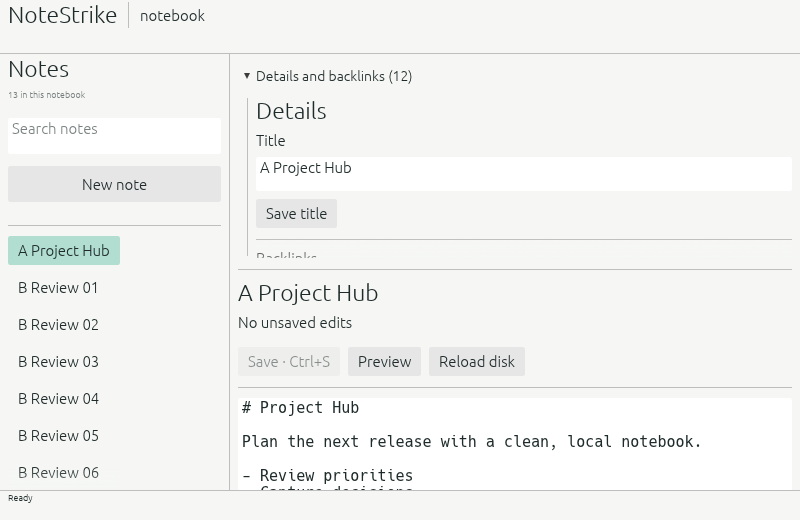
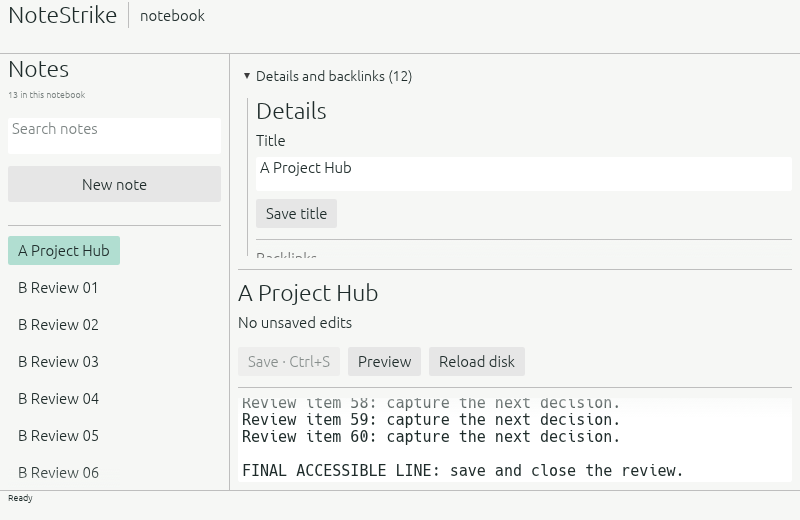
Publish verified wide and compact editor captures

Changed region(s): [[0.2812, 0.7692, 0.875, 0.8615], [0.2812, 0.8923, 0.8438, 0.9231]]

diff --git a/docs/current-editor-visual.md b/docs/current-editor-visual.md
@@ -1,10 +1,10 @@
 # Current native editor visual
 
-The [wide capture](../assets/screenshots/current-editor-wide.png) and [compact capture](../assets/screenshots/current-editor-compact.png) are unaltered app-window PNGs from `notestrike-native` at source commit `dc4a2fc29b8e694975c58605ea8aeba38bc34cc2` in [hosted run 38989364672](https://github.com/Gerbzz/NoteStrike/actions/runs/38989364672). The Linux runner used Xvfb and Mesa software OpenGL after the hosted Windows runner lacked OpenGL 2.0. No native executable was downloaded or run on the Office PC.
+The [wide capture](../assets/screenshots/current-editor-wide.png) and [compact capture](../assets/screenshots/current-editor-compact.png) are unaltered app-window PNGs from `notestrike-native` at source commit `fe0643a531ac4bc34848d1e13b43979ddabce452` in [hosted run 38991325340](https://github.com/Gerbzz/NoteStrike/actions/runs/38991325340). The Linux runner used Xvfb and Mesa software OpenGL after the hosted Windows runner lacked OpenGL 2.0. Windows formatting, ten tests, and native build passed in the same run. No native executable was downloaded or run on the Office PC.
 
-The workflow created a disposable notebook with a selected **A Project Hub** note and 12 real backlinks. It captured both 1280×800 and 800×520 layouts. The compact screenshot shows the populated Details section constrained above the editor.
+The workflow created a disposable notebook with selected **A Project Hub**, 60 review lines, and 12 real backlinks. The 1280×800 image shows the start of the long note and the sorted backlink list. The 800×520 image keeps Details open and shows review items 58–60 plus **FINAL ACCESSIBLE LINE** at the end of the source editor. The headless regression checks that long source content exceeds the compact viewport without losing its final text.
 
[4 lines of base64/hex data omitted]
 
-These captures establish rendered layout and visible content. Pointer, keyboard, focus, and screen-reader walkthroughs remain open before merge.
+These captures establish rendered layout and visible content. Interactive pointer, keyboard, focus, and screen-reader walkthroughs remain open.

diff --git a/README.md b/README.md
@@ -25,9 +25,9 @@ NoteStrike keeps a Markdown notebook on your own machine. Create and edit notes,
 
 ![Current NoteStrike workspace with a selected Project Hub and sorted backlinks](assets/screenshots/current-editor-wide.png)
 
-![Current compact NoteStrike workspace with bounded Details and the editor visible](assets/screenshots/current-editor-compact.png)
+![Current compact NoteStrike workspace with Details open and the final line of a long note visible](assets/screenshots/current-editor-compact.png)
 
-These genuine app-window captures show the current branch with a synthetic local notebook and 12 backlinks. [Current capture provenance](docs/current-editor-visual.md) records the exact source, hosted run, fixture, and hashes. The [earlier Field Log capture](assets/screenshots/note-editor.png) and its [provenance](docs/SCREENSHOT_PROVENANCE.md) document the previous workspace.
+These genuine app-window captures show the current branch with a synthetic 60-line local note and 12 backlinks; the compact view shows its final line. [Current capture provenance](docs/current-editor-visual.md) records the exact source, hosted run, fixture, and hashes. The [earlier Field Log capture](assets/screenshots/note-editor.png) and its [provenance](docs/SCREENSHOT_PROVENANCE.md) document the previous workspace.
 
 ## Current status
 
